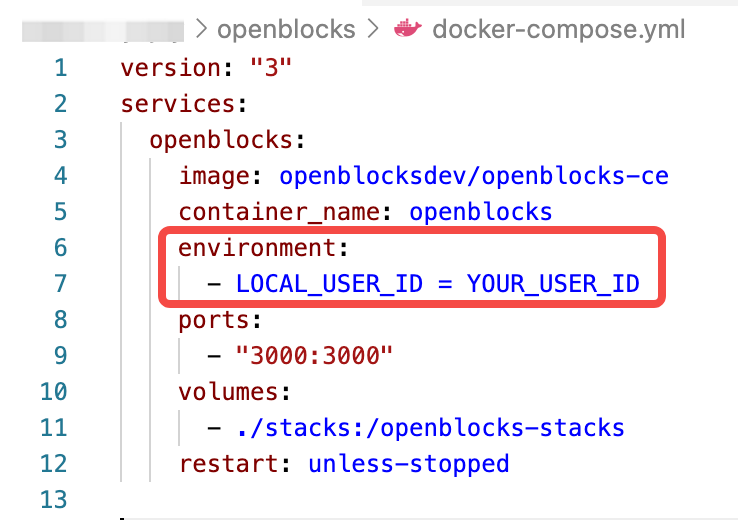
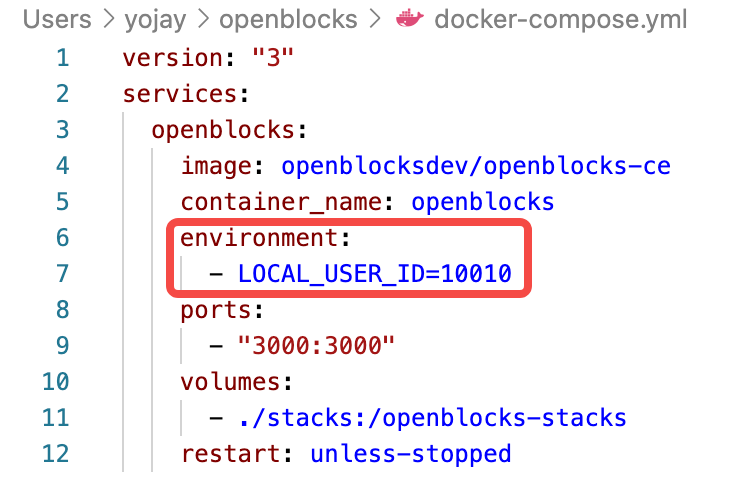
GitBook: [#83] edit "Self-hosting"

diff --git a/docs/self-hosting/README.md b/docs/self-hosting/README.md
@@ -57,22 +57,69 @@ docker run -d --name openblocks -p 3000:3000 -v "$PWD/stacks:/openblocks-stacks"
 {% endtab %}
 {% endtabs %}
 
+## Customize deployment configurations
+
+This section shows how to customize deployment configurations. If you have already started a container, you need to restart the container for the new configurations to take effect. Following are the ways to **restart** your container:
+
+{% tabs %}
+{% tab title="Docker-Compose (Recommend)" %}
+One single command:
+
+```
+docker-compose up
+```
+
+It picks up configuration changes by stopping containers already in service and recreating new ones.
+{% endtab %}
+
+{% tab title="Docker" %}
+Run the following commands to stop, remove the container already in service, and start up a new one using the newly customized deployment command.
+
+```docker
+docker stop openblocks
+docker rm openblocks
+# run your new docker run command
+```
+{% endtab %}
+{% endtabs %}
+
+### Use your own MongoDB
+
+By default Openblocks uses the built-in MongoDB installed inside the container, and you can replace it with your own MongoDB cluster.
+
+{% tabs %}
+{% tab title="Docker-Compose" %}
+Add an environment variable `MONGODB_URI` in `docker-compose.yml` downloaded in your working directory.\
+<img src="../.gitbook/assets/mongodb-uri.png" alt="" data-size="original">
+{% endtab %}
+
+{% tab title="Docker" %}
+Add an environment variable `MONGODB_URI` to the deployment command, as shown below:
+
+{% code overflow="wrap" %}
+```docker
+docker run -d --name openblocks -e MONGODB_URI=YOUR_MONGO_URI -p 3000:3000 -v "$PWD/stacks:/openblocks-stacks openblocksdev/openblocks-ce
+```
+{% endcode %}
+{% endtab %}
+{% endtabs %}
+
 ### Run as non-root user
 
-By default the supervisor will run under the user `uid=9001`. You can specify the uid by adding a docker environment variable `LOCAL_USER_ID` and setting its value.
+By default the supervisor will run under the user `uid=9001`. You can specify the uid by adding a docker environment variable `LOCAL_USER_ID` and setting its value to a **Number**, such as `10010`.
 
 {% tabs %}
 {% tab title="Docker-Compose" %}
 Add an environment variable `LOCAL_USER_ID` in `docker-compose.yml` downloaded in your working directory.\
-<img src="../.gitbook/assets/local-user-id (1).png" alt="" data-size="original">
+<img src="../.gitbook/assets/local-user-id.png" alt="" data-size="original">
 {% endtab %}
 
 {% tab title="Docker" %}
-Add an environment variable `LOCAL_USER_ID` to the deploying command, as shown below:
+Add an environment variable `LOCAL_USER_ID` to the deployment command, as shown below:
 
 {% code overflow="wrap" %}
-```bash
-docker run -d --name openblocks -e LOCAL_USER_ID = YOUR_USER_ID -p 3000:3000 -v "$PWD/stacks:/openblocks-stacks" openblocksdev/openblocks-ce
+```docker
+docker run -d --name openblocks -e LOCAL_USER_ID=10010 -p 3000:3000 -v "$PWD/stacks:/openblocks-stacks" openblocksdev/openblocks-ce
 ```
 {% endcode %}
 {% endtab %}
@@ -91,10 +138,10 @@ With an SSL certificate, you can securely visit self-hosted Openblocks with HTTP
 
 {% tab title="Docker" %}
 1. Copy `fullchain.pem` and `privkey.pem` to the `$PWD/stacks/ssl` directory.
-2. Change the `ports` of the deploying command to `3443:3443`, as shown below:
+2. Change the `ports` in the deployment command to `3443:3443`, as shown below:
 
 {% code overflow="wrap" %}
-```bash
+```docker
 docker run -d --name openblocks -p 3443:3443 -v "$PWD/stacks:/openblocks-stacks" openblocksdev/openblocks-ce
 ```
 {% endcode %}
@@ -113,7 +160,7 @@ In cases where you have certificates with names: `server.crt` and `server.key`, 
 {% tab title="Docker-Compose" %}
 Run the following commands to update to the latest Openblocks image:
 
-```bash
+```docker
 docker-compose pull
 docker-compose rm -fsv openblocks
 docker-compose up -d
@@ -124,7 +171,7 @@ docker-compose up -d
 Run the following commands to update to the latest Openblocks image:
 
 {% code overflow="wrap" %}
-```bash
+```docker
 docker pull openblocksdev/openblocks-ce
 docker rm -fv openblocks
 docker run -d --name openblocks -p 3000:3000 -v "$PWD/stacks:/openblocks-stacks" openblocksdev/openblocks-ce
